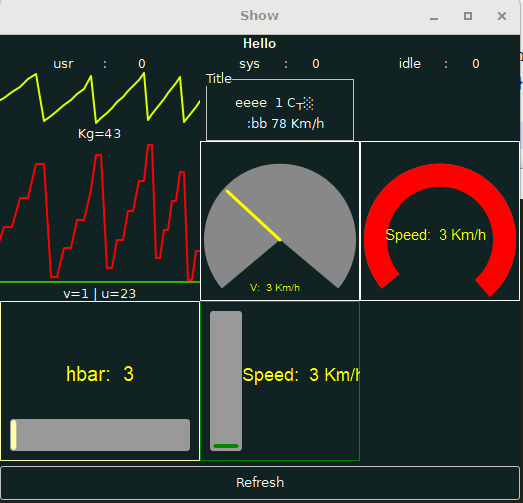
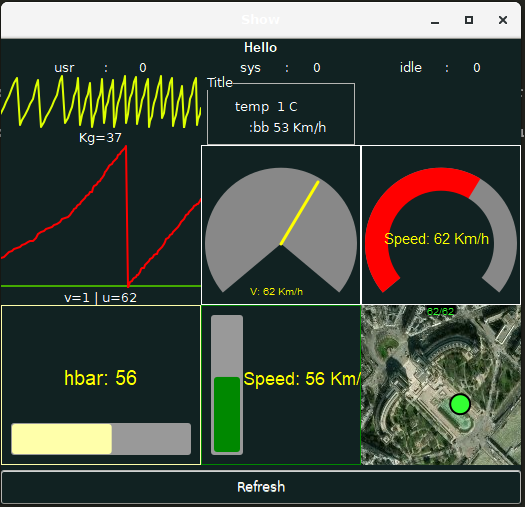
creation map widget

diff --git a/lib/widgets/ewidget.rb b/lib/widgets/ewidget.rb
@@ -65,229 +65,3 @@ class W
   def update()
   end
 end
-
-###########################################################################################
-#     Class Widgets
-###########################################################################################
-
-# EWidget: affiche le widget specifié par proc, sur les 3 colonnes
-class EWidget < W
-    def initialize(app,period,text,config)
-        super(app,period,text)
-        @config=config
-    end
-    def realize()
-        @w=nil
-        @app.cell_hspan(3,@app.box {
-            @w=@config[:presentation].call(@app,self)
-        })
-    end
-    def update()
-        @config[:generation].call(@w)
-    end
-end
-
-# ERtdb : affichae d'une valeur de variable, en text
-class ERtdb < W
-    def realize()
-        @app.cell_right(@app.label(@t))
-        @app.cell(@app.label(" : "))
-        @app.cell_left(@w=@app.label("?"))
-        @var=$rtdb.get_variable(@c.to_sym)
-    end
-    def update()
-        @w.text= @var.read.to_s
-    end
-end
-
-
-# Enb: Execute une commande et compte le nombre de lignes du resultat
-class ENb < W
-    def realize()
-        @app.cell_right(@app.label(@t))
-        @app.cell(@app.label(" : "))
-        @app.cell_left(@w=@app.label("?"))
-    end
-    def update()
-        @w.text=`#{(@c)}`.split(/\r?\n/).size.to_s
-    end
-end
-
-# EZize: scan une liste de nom de fichier et renvoie la tailles cumullés des fichiers
-class EFSize < W
-    def realize()
-        @value=0
-        @app.cell_right(@app.label(@t))
-        @app.cell(@app.label(" : "))
-        @app.cell_left(@w=@app.label("?"))
-    end
-    def update()
-        size=0
-        Dir.glob(@c).each {|fn| size+=File.size(fn) if File.file?(fn) }
-        delta=size-@value
-        @value=size
-        sdelta= if delta<1000 then delta.to_s elsif
-          delta < 1000_000 then "#{delta/1000} KB" elsif
-          delta < 1000_000_000 then "#{delta/1000_000} MB" else
-            "#{delta/1000_000_000} GB" 
-        end
-        @w.text=sdelta
-    end
-end
-
-# EText: execute un bloc ruby
-class EText < W
-    def realize()
-        @app.cell_right(@app.label(@t))
-        @app.cell(@app.label(" : "))
-        @app.cell_left(@w=@app.label("?"))
-    end
-    def update()
-        @w.text=@c.call.to_s
-    end
-end
-
-# EList : liste de valeur
-class EList < W
-    def initialize(app,period,text,config) 
-        super(app,period,text)
-        @config=config
-        @hw={}
-    end
-    def realize()
-        @app.cell_hspan(3,@app.box {
-            @app.flow {
-            @app.labeli(" ")
-            @app.frame(@t) {
-                @w=@app.table(0,0) {
-                    @config.each {|name,h|
-                    @app.row {
-                        @app.cell_right(@app.label(h[:text]))
-                        @app.cell_left(@hw[name]=@app.label("?"))
-                        @app.next_row
-                    }}
-                }
-            }
-            @app.labeli(" ")
-        } } )
-    end
-    def update()
-        @config.keys.each {|name|
-            v=$rtdb.read(name)
-            @hw[name].text= (@config[name][:format] || "%s" ) % v
-        }
-    end
-end
-
-
-# EPlot : courbe(s) type sclloscope : une ou plusieurs mesures, scrolling horisontal
-class EPlot < W
-    def initialize(app,period,text,config) 
-        super(app,period,text)
-        @config=config
-    end
-    def realize()
-        @config[:presentation].each {|n,c| c[:data]= [[0,0]] if c.kind_of? Hash }
-        @w=nil
-        config=@config[:config]
-        @app.cell_hspan(3,@app.box {
-            @w=@app.plot(config[:size].first,config[:size].last-17,@config[:presentation],@config[:config]||{})
-            @lab=@app.label(" ")
-        })
-    end
-    def update()
-        v=0
-        gvalue=[]
-        if @config[:generation] 
-            @config[:generation].each {|(name,proc)|
-                @w.scroll_data(name,v=proc.call())
-                svalue=@config[:presentation][name][:format] % v
-                gvalue << svalue
-            }
-            @lab.text = gvalue.join(" | ")
-        else
-            @config[:presentation].keys.each_with_index {|name,i|
-                value=$rtdb.get_variable(name.to_sym).read_as_float
-                @w.scroll_data(name,value)
-                svalue=@config[:presentation][name][:format] % value
-                gvalue << svalue
-                #{@w.draw_text(0,5+i*10,svalue,1.5,@config[:presentation][name][:color])}
-            }
-            @lab.text = gvalue.join(" | ")
-        end
-
-    end
-end
-
-
-# EGauge : affichage d'une valeur numerique dans un instrument
-class EGauge < W
-    def initialize(app,period,text,config) 
-        super(app,period,text)
-        @config=config
-        @width,@height=@config[:size]
-        @x0=@width/2
-        @y0=@height/2
-        if @config[:type].to_s !~  /bar|progress/
-            @config[:angle] ||= 0
-            @y0=@height/2*(1+ 1-Math.sin(d2r(@config[:angle])))
-            @r=[@x0,@y0].min-4
-        end
-        @angle=0
-    end
-    def realize()
-        @w=nil
-        @app.cell_hspan(3,@app.box {
-            @w=@app.canvas(@width,@height) {
-              @app.on_canvas_draw { |w,ctx| redraw(w,ctx) }
-            }
-        })
-    end
-    def redraw(w,ctx) 
-        w.draw_rectangle(0,0,@width, @height,0, @config[:fg],@config[:bg], 2) 
-        a=@config[:angle]
-        case @config[:type]
-        when :cadrant
-            w.draw_arc(@x0,@y0,@r,1/4.0+a/360.0,1/4.0-a/360.0, 3, "#0F0","#888")
-            x1=@x0+(@r-4)*Math.cos(@angle)
-            y1=@y0+(@r-4)*Math.sin(@angle)
-            w.draw_line([@x0,@y0,x1,y1],@config[:color],3)
-            w.draw_text_center(@r,@height-10,@svalue,1,@config[:color])
-        when :speed
-            w.draw_arc(@x0,@y0,@r,1/4.0+a/360.0,1/4.0-a/360.0, 3, "#0F0","#888")
-            w.draw_arc(@x0,@y0,@r,1/4.0+a/360.0,1/4.0-@angle/2*Math::PI,0,"#F00","#F00")
-            w.draw_circle(@x0,@y0,@r*7/10, @config[:bg],@config[:bg],0)
-            w.draw_text_center(@r,@y0,@svalue,1.5,@config[:color])
-        when :hbar
-            marge=10
-            largeur=@height/5
-            ep=1
-            w.draw_rectangle(marge,@height-marge-largeur,@width-2*marge,largeur, 3, "#F00","#999",ep)
-            w.draw_rectangle(marge+ep,@height-marge-largeur+ep,(@width-2*(marge+ep))*@angle,largeur-2*ep, 3, @config[:fg],@config[:fg],0)
-            w.draw_text_center(@x0,@y0,@svalue,2,@config[:color])
-        when :vbar
-            marge=10
-            ep=3
-            largeur=@width/5
-            h=(@height-2*(marge+ep))*@angle
-            w.draw_rectangle(marge,marge,largeur,@height-2*marge, 3, "#F00","#999",ep)
-            w.draw_rectangle(marge+ep,@height-marge-ep-h,largeur-2*ep,h, 3, @config[:fg],@config[:fg],ep)
-            w.draw_text(marge+largeur,@y0,@svalue,1.8,@config[:color])
-        end
-    end
-    def update()
-        v=$rtdb.read(@config[:varname]).to_f
-        @svalue=(@config[:format] % [v])
-        if @config[:type].to_s =~  /bar|progress/
-            min,max=0.0,1.0
-        else
-            min,max=(270-@config[:angle]),(270+@config[:angle])
-        end
-        vmin,vmax=@config[:minmax]
-        y=(v-vmin)*(max-min)/(vmax-vmin)+min
-        @angle = (@config[:type].to_s =~  /bar|progress/) ? y : d2r(y)
-        @w.redraw
-    end
-    def d2r(a) Math::PI*(a/180.0) end
-end
-

diff --git a/lib/lshow.rb b/lib/lshow.rb
@@ -13,7 +13,7 @@ $BG="#122"
     production: [
         {type: ProdSystem, period: 1, cmd: "ruby -e 'Time.now.sec.times { p 1 }'", to: :aa },
         {type: ProdPipeNum,  cmd: "ruby -e 'loop { a=Time.now.sec.to_s ; puts a+' '+a+' '+a+' '+a ; sleep(1)}'", index: [0,1,2,3], to: %i{usr sys idle aaa} },
-        {type: ProdRuby,  period: 0.2, cmd: proc {(Time.now.to_f*100).to_i % 100 }, to: :bb },
+        {type: ProdRuby,  period: 0.1, cmd: proc {(Time.now.to_f*10).to_i % 100 }, to: :bb },
     ],
     window: {
      page1: {
@@ -31,7 +31,7 @@ $BG="#122"
                     generation:  { "a" => proc {(Time.now.to_f*100).to_i % 100 } },
                   } ) },
             2  => proc {|e| e.list(1,"Title",{
-                    aa: {text: "eeee", format: "%3d C°"},
+                    aa: {text: "temp", format: "%3d C"},
                     bb: {text: ":bb", format: "%3d Km/h"},
                   })}
         },
@@ -44,7 +44,7 @@ $BG="#122"
                         }
                     }
                   )},
-            2  => proc {|e| e.gauge(0.7,"mesure",{
+            2  => proc {|e| e.gauge(0.1,"mesure",{
                     size: [160,160],
                     type: :cadrant,
                     angle:50,
@@ -55,7 +55,7 @@ $BG="#122"
                     format: "V: %2.0f Km/h",
                     minmax: [0,100],
                   })},
-            3  => proc {|e| e.gauge(0.7,"mesure",{
+            3  => proc {|e| e.gauge(0.1,"mesure",{
                     size: [160,160],
                     type: :speed,
                     angle:50,
@@ -88,6 +88,15 @@ $BG="#122"
                     varname: :bb,
                     format: "Speed: %2.0f Km/h",
                     minmax: [0,100],
+                  })},
+            3  => proc {|e| e.map(0.2,"Paris",{
+                    size: [160,160],
+                    type: :xy,
+                    fg: "#0F0",
+                    varnames: [:bb,:bb],
+                    minmax: [[0,100],[0,100]],
+                    format: "%2.0f/%2.0f",
+                    image: "#{Dir.pwd}/raster.png",
                   })}
         }
      }

diff --git a/lib/widgets/egauge.rb b/lib/widgets/egauge.rb
@@ -11,7 +11,7 @@ class EGauge < W
         @width,@height=@config[:size]
         @x0=@width/2
         @y0=@height/2
-        if @config[:type].to_s !~  /bar|progress/
+        if @config[:type].to_s !~  /bar/
             @config[:angle] ||= 0
             @y0=@height/2*(1+ 1-Math.sin(d2r(@config[:angle])))
             @r=[@x0,@y0].min-4
@@ -33,12 +33,14 @@ class EGauge < W
         when :cadrant
             w.draw_arc(@x0,@y0,@r,1/4.0+a/360.0,1/4.0-a/360.0, 3, "#0F0","#888")
             x1=@x0+(@r-4)*Math.cos(@angle)
-            y1=@y0+(@r-4)*Math.sin(@angle)
+            y1=@y0-(@r-4)*Math.sin(@angle)
             w.draw_line([@x0,@y0,x1,y1],@config[:color],3)
             w.draw_text_center(@r,@height-10,@svalue,1,@config[:color])
         when :speed
-            w.draw_arc(@x0,@y0,@r,1/4.0+a/360.0,1/4.0-a/360.0, 3, "#0F0","#888")
-            w.draw_arc(@x0,@y0,@r,1/4.0+a/360.0,1/4.0-@angle/2*Math::PI,0,"#F00","#F00")
+            p0=-3/4.0+a/360.0
+            p1=1/4.0-a/360.0
+            w.draw_arc(@x0,@y0,@r,p0,p1, 3, "#0F0","#888")
+            w.draw_arc(@x0,@y0,@r,p0,p0+(p1-p0)*@angle,0,"#F00","#F00")
             w.draw_circle(@x0,@y0,@r*7/10, @config[:bg],@config[:bg],0)
             w.draw_text_center(@r,@y0,@svalue,1.5,@config[:color])
         when :hbar
@@ -61,16 +63,15 @@ class EGauge < W
     def update()
         v=$rtdb.read(@config[:varname]).to_f
         @svalue=(@config[:format] % [v])
-        if @config[:type].to_s =~  /bar|progress/
+        if @config[:type].to_s =~  /bar|speed/
             min,max=0.0,1.0
         else
-            min,max=(270-@config[:angle]),(270+@config[:angle])
+            min,max=(270-@config[:angle]),(@config[:angle]-90)
         end
         vmin,vmax=@config[:minmax]
-        y=(v-vmin)*(max-min)/(vmax-vmin)+min
-        @angle = (@config[:type].to_s =~  /bar|progress/) ? y : d2r(y)
+        y=linear(v,[vmin,vmax],[min,max])
+        @angle = (@config[:type].to_s =~  /bar|speed/) ? y : d2r(y)
         @w.redraw
     end
-    def d2r(a) Math::PI*(a/180.0) end
 end
 

diff --git a/lib/widgets/engine.rb b/lib/widgets/engine.rb
@@ -10,6 +10,7 @@ class E
   def list(period,txt,config)     @l[[@lastrow,@lastcol]] = EList.new(@app,period,txt,config)  end
   def gauge(period,txt,config)    @l[[@lastrow,@lastcol]] = EGauge.new(@app,period,txt,config)  end
   def widget(period,txt,config)   @l[[@lastrow,@lastcol]] = EWidget.new(@app,period,txt,config) end 
+  def map(period,txt,config)   @l[[@lastrow,@lastcol]] = EMap.new(@app,period,txt,config) end 
 
   def initialize(app)
       @app=app
@@ -64,6 +65,19 @@ class W
   end
   def update()
   end
+  
+  #============== common tools ==============
+  
+  def linear(value,xminmax,yminmax,debug=false)
+      vmin,vmax=xminmax
+      min,max=yminmax
+      v=1.0*(max-min)*(value-vmin)/(vmax-vmin)+min
+      p [v,value,xminmax,yminmax] if debug
+      v
+  end
+  def d2r(a) Math::PI*(a/180.0) end
+  def r2d(a) ((a*180.0)/Math::PI) % 360 end
+  
 end
 
 

diff --git a/lib/show.rb b/lib/show.rb
@@ -1,10 +1,12 @@
 require 'Ruiby'
 require_relative "rtdb.rb"
-Dir.glob("producer/*.rb").each {|fn| p fn ;  require_relative fn }
 require_relative "widgets/engine.rb"
+Dir.glob("producer/*.rb").each {|fn| p fn ;  require_relative fn }
 Dir.glob("widgets/*.rb").each {|fn| p fn ; require_relative fn }
 
-$lfile= "lshow.rb"
+(puts("cd lib please..."); exit(1)) unless defined?(ProdSystem)
+
+$lfile= ARGV[0] || "lshow.rb"
 $rtdb=RTDB.new({})
 
 Thread.abort_on_exception=true

diff --git a/lib/producer/prods.rb b/lib/producer/prods.rb
@@ -28,6 +28,7 @@ end
 #
 # Execute une commande systeme, periodiquement (schedule by rtdb)
 #
+p "eee"
 class ProdSystem < Producer
     def execute()
         `#{@cmd}`.each_line {|line|

diff --git a/README.md b/README.md
@@ -19,7 +19,7 @@ Usage (linux/windows) :
 > git clone https://github.com/glurp/gtk-dashboard.git
 > cd gtk-dashboard
 > cd lib
-> ruby show.rb  # use lshow.rb, configuration file by default
+> ruby show.rb  descr.rb
 ```
 
 
@@ -117,5 +117,6 @@ Widget which use rtdb are :
 * Plot
 * Gauge
 * List
+* Map
 
 
